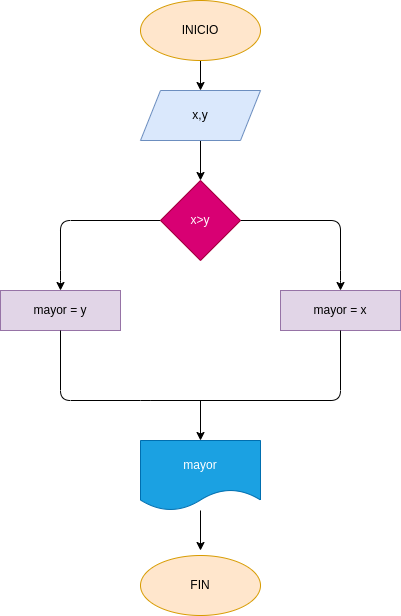
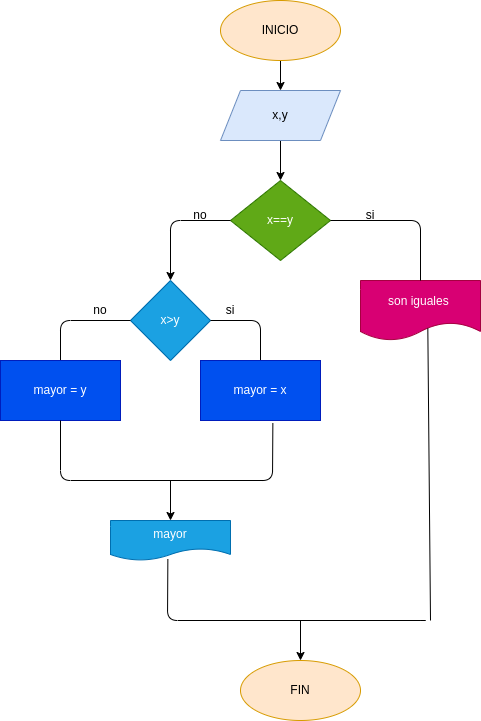
Commit

diff --git a/mayor_2enteros.py b/mayor_2enteros.py
@@ -1,0 +1,22 @@
+# Programa para verificar cual de dos numeros enteros es el mayor 
+
+print("------------------------------------------")
+print("------------MAYOR 2 ENTEROS:--------------")
+print("------------------------------------------")
+
+# input
+x = int(input("digite el valor de x: "))
+y = int(input("digite el valor de y: "))
+
+#processing
+if x == y:
+    # output
+    print ("Los numeros son iguales...")
+else:
+    if x > y:
+        mayor = y
+
+    else:
+        mayor = y
+         # output
+        print ("El mayor entre " + str(x) + " y " + str(y) + " es " + str(mayor))
